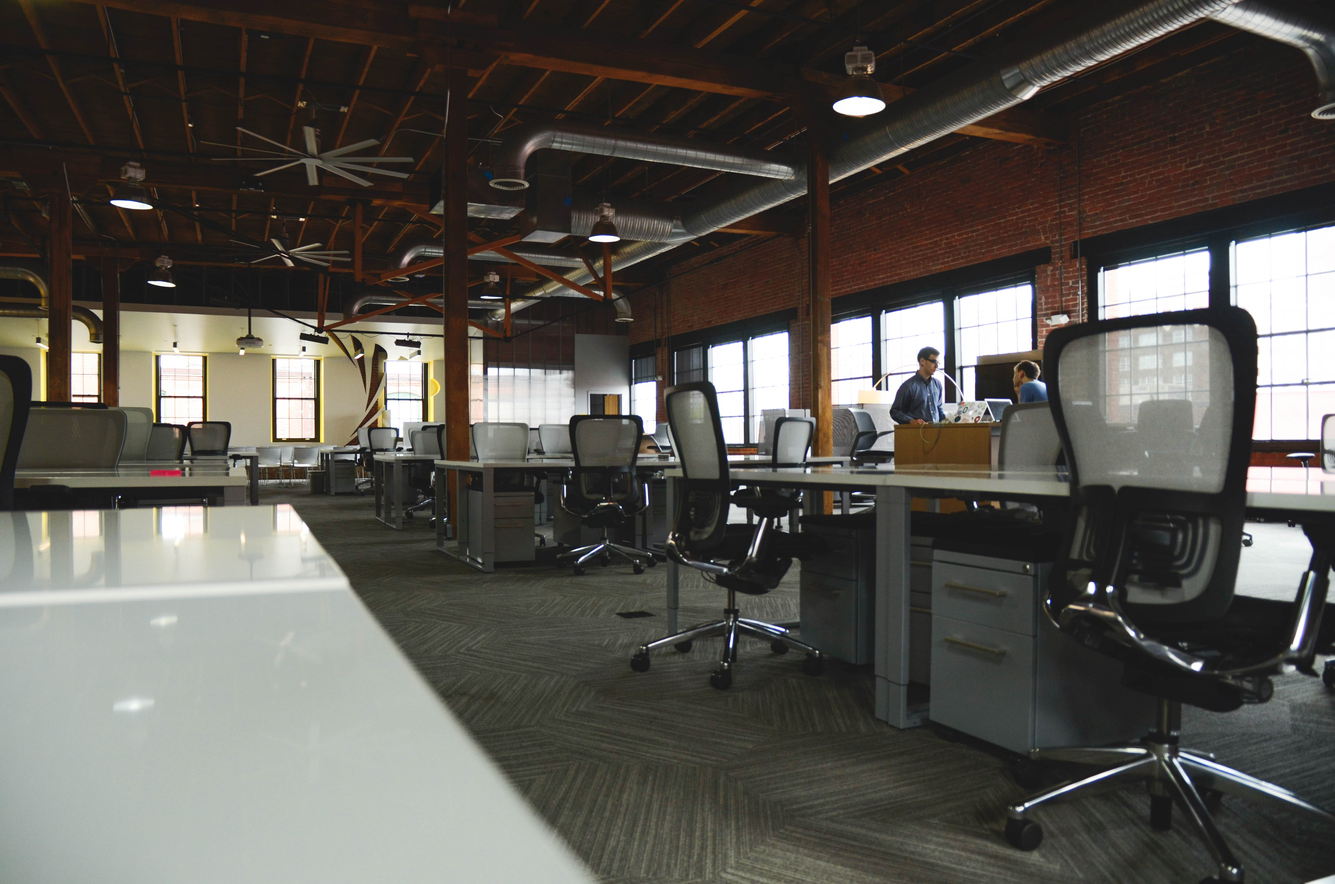
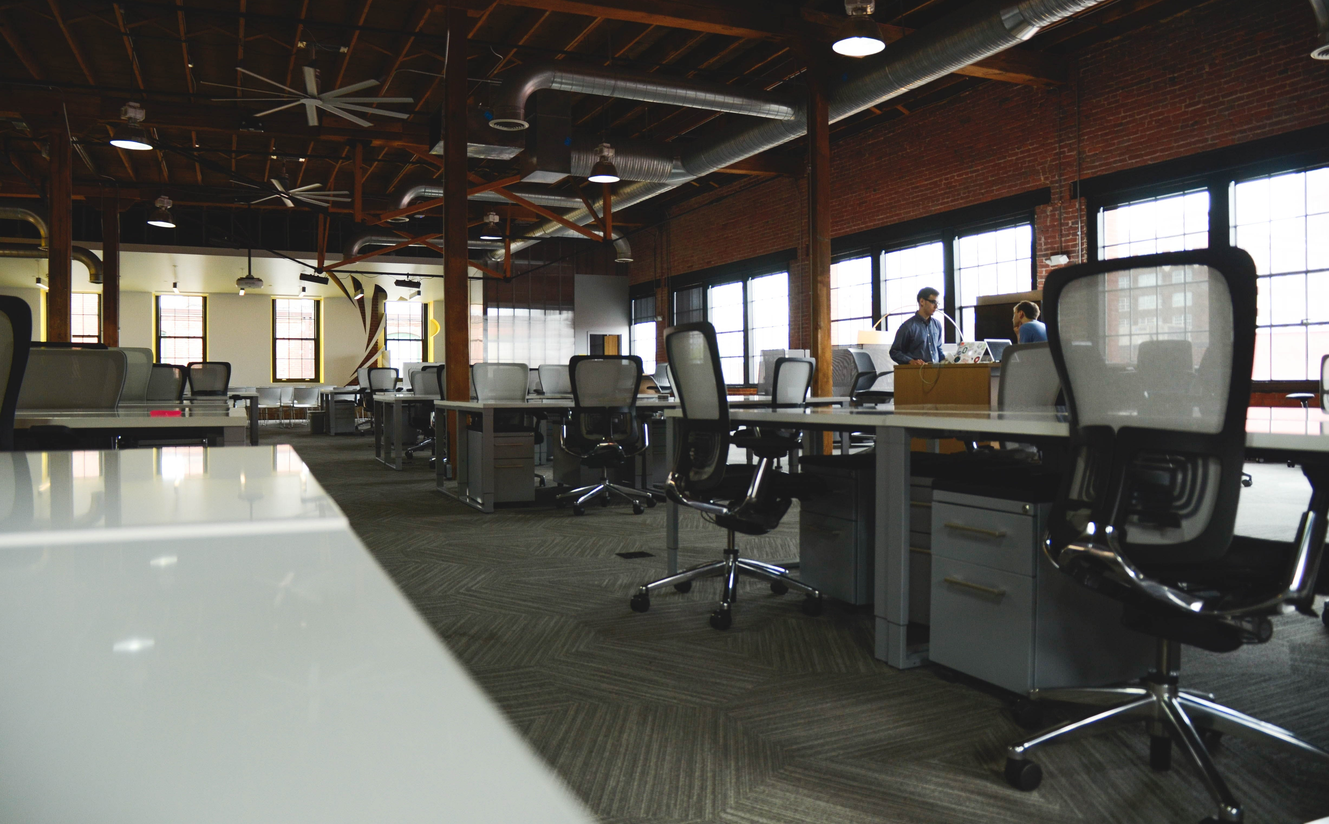
home page image set up

diff --git a/style/search.css b/style/search.css
@@ -24,3 +24,9 @@
     float: right;
     margin-left: .5%;
 }
+
+.carousel_image{
+    
+    height: 100vh;
+    
+}

diff --git a/index.php b/index.php
@@ -9,6 +9,9 @@
 
   <!-- Bootstrap core CSS -->
   <link href="https://cdn.jsdelivr.net/npm/bootstrap@5.0.2/dist/css/bootstrap.min.css" rel="stylesheet" integrity="sha384-EVSTQN3/azprG1Anm3QDgpJLIm9Nao0Yz1ztcQTwFspd3yD65VohhpuuCOmLASjC" crossorigin="anonymous">
+
+  <link rel="stylesheet" type="text/css" href="style\search.css">
+
 </head>
 
 
@@ -18,7 +21,7 @@
 
   ?>
   <!-- Carousel -->
-  <div id="demo" class="carousel slide" data-bs-ride="carousel">
+  <div id="demo" class="carousel slide " data-bs-ride="carousel">
 
 
     <!-- Indicators/dots -->
@@ -30,22 +33,22 @@
 
     <!-- The slideshow/carousel -->
     <div class="carousel-inner">
-      <div class="carousel-item active">
+      <div class="carousel-item active carousel_image">
 
-        <img src="images/home_page/home-1.jpg" alt="House" class="d-block" style="width:100% ">
+        <img src="images/home_page/home-1.jpg" alt="House" class="d-block " style="width:100% ">
         <div class="carousel-caption">
           <h3>House</h3>
           <p>Find the best place for living!</p>
         </div>
       </div>
-      <div class="carousel-item">
+      <div class="carousel-item carousel_image">
         <img src="images\home_page\home-2.jpg" alt="Office" class="d-block" style="width:100%">
         <div class="carousel-caption">
           <h3>Office</h3>
           <p>Better workplace for better performance!</p>
         </div>
       </div>
-      <div class="carousel-item">
+      <div class="carousel-item carousel_image">
         <img src="images\home_page\home-3.jpg" alt="Market Place" class="d-block" style="width:100%">
         <div class="carousel-caption">
           <h3>Market Place</h3>
